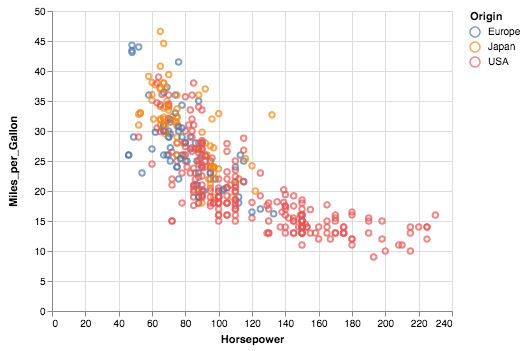
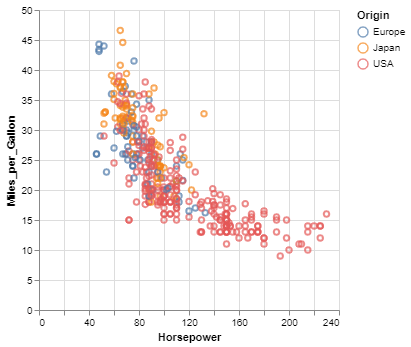
Improve readme (#3033)

diff --git a/README.md b/README.md
@@ -1,8 +1,6 @@
 # Vega-Altair <a href="https://altair-viz.github.io/"><img align="right" src="https://altair-viz.github.io/_static/altair-logo-light.png" height="50"></img></a>
 
-*The Vega-Altair open source project is not affiliated with Altair Engineering, Inc.*
 
-[![build status](https://img.shields.io/travis/altair-viz/altair/master.svg?style=flat)](https://travis-ci.org/altair-viz/altair)
 [![github actions](https://github.com/altair-viz/altair/workflows/build/badge.svg)](https://github.com/altair-viz/altair/actions?query=workflow%3Abuild)
 [![code style black](https://img.shields.io/badge/code%20style-black-000000.svg)](https://github.com/psf/black)
 [![JOSS Paper](https://joss.theoj.org/papers/10.21105/joss.01057/status.svg)](https://joss.theoj.org/papers/10.21105/joss.01057)
@@ -11,9 +9,12 @@
 **Vega-Altair** is a declarative statistical visualization library for Python. With Vega-Altair, you can spend more time understanding your data and its meaning. Vega-Altair's
 API is simple, friendly and consistent and built on top of the powerful
 [Vega-Lite](https://github.com/vega/vega-lite) JSON specification. This elegant
-simplicity produces beautiful and effective visualizations with a minimal amount of code. *Vega-Altair was originally developed by [Jake Vanderplas](https://github.com/jakevdp) and [Brian
+simplicity produces beautiful and effective visualizations with a minimal amount of code. 
+
+*Vega-Altair was originally developed by [Jake Vanderplas](https://github.com/jakevdp) and [Brian
 Granger](https://github.com/ellisonbg) in close collaboration with the [UW
 Interactive Data Lab](https://idl.cs.washington.edu/).*
+*The Vega-Altair open source project is not affiliated with Altair Engineering, Inc.*
 
 ## Documentation
 